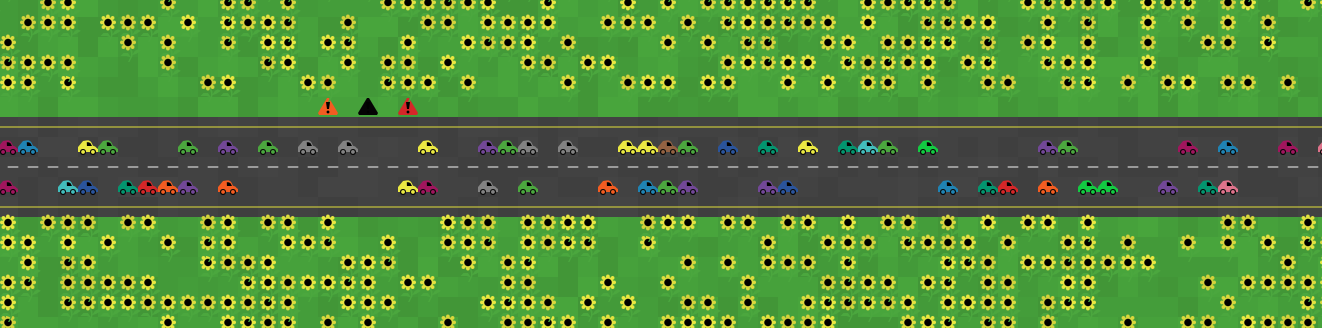
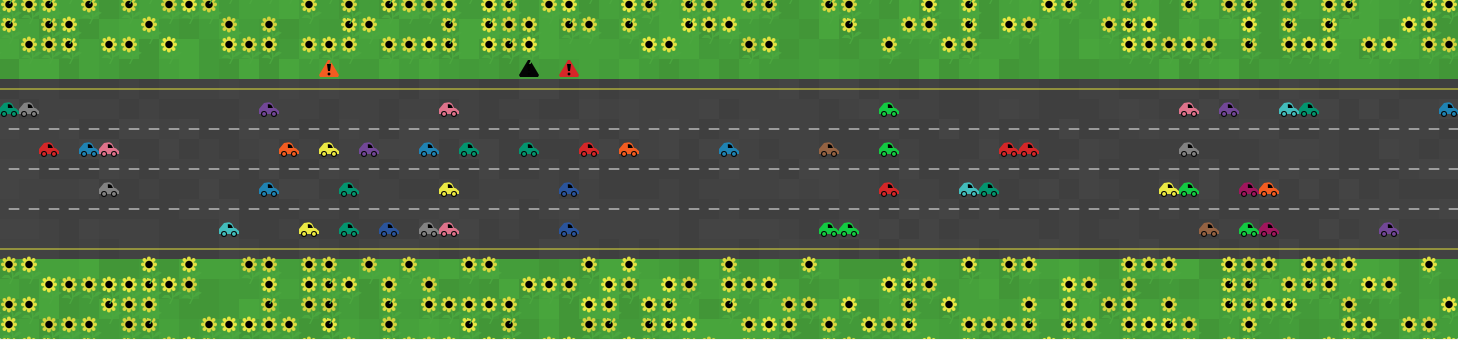
uploading report

diff --git a/_projects/1_project.md b/_projects/1_project.md
@@ -16,7 +16,7 @@ Choose a problem and an intervention that you would like to simulate and analyse
 
 Evidence suggests that reducing the mean speed of traffic on the road results in a decrease in the number of accidents and the severity of injuries caused. Speed cameras are employed as a means to enforce speed limits on the road. This report takes a look at the effectiveness of these cameras in changing the behaviour of road users, to encourage road safety, by analysing the results obtained from an Agent-Based Model used to simulate this intervention. 
 
-<b>Link to report:</b>
+<b>Link to report:</b> <a href="https://drive.google.com/file/d/1mD9Z6u5qBUufYU5rBireX1l0PkkS8Ibp/view?usp=share_link">key-findings-report</a>
 
 ### Tools:
 
